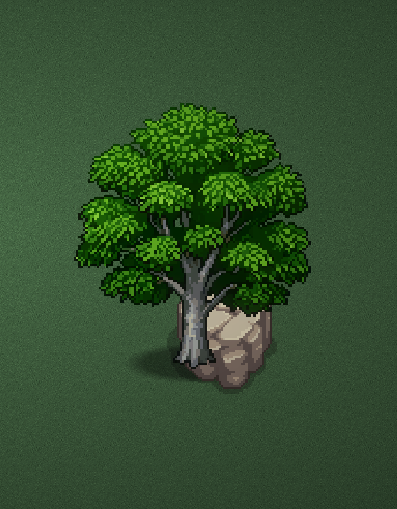
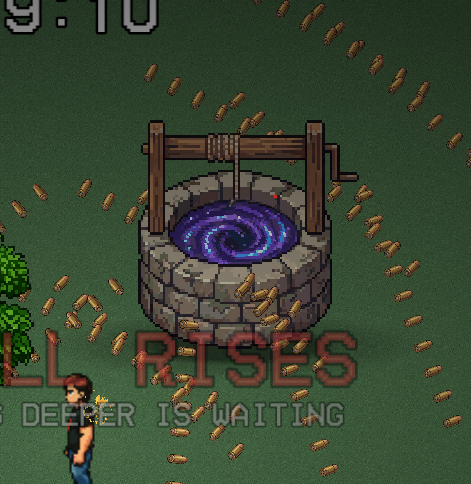
Umbra fantanii Ender: inel in jurul talpii, nu pata sub ea
Talpa fantanii, masurata in pixelii texturii, e o elipsa de ~72x26 px cu
centrul cu ~33px mai sus decat baza sprite-ului. Umbra era centrata pe bot,
deci iesea toata in jos, pe iarba. Acum e centrata pe talpa si putin mai mare
decat ea (1.15 / squash 0.42 / shift -33), deci lasa un inel egal de jur imprejur.
halo_scale 1.7 -> 1.5 ca haloul violet sa ramana la fel de lat ca inainte.

diff --git a/README.md b/README.md
@@ -111,6 +111,14 @@ All scenes (`.tscn`) and scripts (`.gd`) live in the project root.
 
 **Collision:** everything is on the default layer/mask (layer 1). Bullets (Area2D) detect enemies (CharacterBody2D) via `body_entered` and filter with `is_in_group("enemy")`, so no manual collision-layer setup is needed yet.
 
+## Current state (2026-08-04, the Ender well's shadow, take two — a ring around its foot)
+- 🐛 **Reported again** ("tot nu e facuta umbra bine, fa fix inconjuru ei, adica umbra trebuie pusa mai sus si mai mare"), with a fresh screenshot in `debugging/`.
+- **What the previous pass got wrong:** it treated the shadow as a pool under a support point, the way trees work, and glued it to the bottom lip of the stone. But the well is a **barrel** — its shadow is not a smear, it is the **circle it stands on**, slightly inflated.
+- **Measured off the texture, row by row:** the foot is an ellipse ~72 px wide and ~26 px tall (side edges at `y=99`, the front lip at `y=112`). So its real squash is **0.36**, not 0.18, and its centre sits about **33 px** (node coordinates) *above* `base_y`, which is the lip itself. The old `shift_y = -3` put the ellipse's centre on that lip, so the whole shadow fell *downwards* onto the grass — precisely the stain he kept seeing.
+- **Now:** `shadow_width` 1.15, `shadow_squash` 0.42, `shadow_shift_y` -33 — centre on centre, ellipse a touch larger than the foot, leaving an even ring to the left, to the right and in front, with its top half tucking naturally under the stone.
+- **`halo_scale` 1.7 → 1.5** so the violet halo stays exactly as wide as before (1.00×1.7 ≈ 1.15×1.5); it is multiplied by `shadow_width`, so without the correction it would have grown 15% for no reason. Its alphas were left alone.
+- Verified on renders: four variants side by side on his grass colour, then old-vs-new on the Ender floor to confirm the halo does not lose its anchoring over there.
+
 ## Current state (2026-08-04, "the +5% damage item does nothing" — the panel was lying)
 - 🐛 **Reported:** "nu merge itemu de 5% damage increase, nu iti da nimic" (Cigarette Pack).
 - **The item worked.** Measured with the pistol on a dummy, crit forced to 0: **24 → 25 → 26 → 28** damage per hit across three pickups — exactly `bullet_damage × (1 + 0.05·n)`, rounded.

diff --git a/CLAUDE.md b/CLAUDE.md
@@ -17,6 +17,22 @@ Quick rules:
 
 ---
 
+## Session log — 2026-08-04 (umbra fântânii Ender, a doua oară: inel în jurul tălpii)
+
+**Cerut de Răzvan:** „tot nu e facuta umbra bine, fa fix inconjuru ei, adica umbra trebuie pusa mai sus si mai mare", cu o captură nouă în `debugging/`.
+
+**Ce lipsea în reglajul de dinainte** (dunga de contact, `1.00` / `squash` 0.18 / `shift_y` -3): plecam de la ideea că umbra e o baltă sub un punct de sprijin, ca la copaci, și o lipeam de botul de jos al pietrei. Dar fântâna e un BUTOI: umbra ei nu e o pată, e **cercul pe care stă**, umflat puțin.
+
+**Măsurat, nu ghicit** — silueta texturii, rând cu rând, în banda de jos: talpa e o elipsă lată de ~72 px și înaltă de ~26 (marginile din lateral la `y=99`, botul din față la `y=112`). Deci turtirea ei reală e **0.36**, nu 0.18, iar centrul ei stă cu **~33 px** (în coordonatele nodului) mai sus decât `base_y`, care e chiar botul. Cifra de dinainte (`shift_y = -3`) punea centrul elipsei fix pe bot, deci toată umbra ieșea în JOS, pe iarbă — exact pata pe care o vedea el.
+
+**Ce e acum:** `shadow_width` 1.15, `shadow_squash` 0.42, `shadow_shift_y` -33. Centrul umbrei pe centrul tălpii, elipsa puțin mai mare decât ea → rămâne un inel egal în stânga, în dreapta și în față, iar partea de sus intră firesc sub piatră. Asta e „fix înconjuru ei".
+
+**`halo_scale` 1.7 → 1.5** ca haloul violet să rămână LA FEL de lat ca înainte (1.00×1.7 ≈ 1.15×1.5). E înmulțit cu `shadow_width`, deci fără corecție ar fi crescut și el cu 15% degeaba. Alfele lui n-au fost atinse.
+
+**Verificat rulând:** patru variante una lângă alta pe iarba din captura lui (cea veche + trei mărimi), apoi vechi-vs-nou pe podeaua Ender-ului, ca haloul să nu piardă din ancoră dincolo — nicio diferență în rău acolo. Scena de test a fost ștearsă.
+
+---
+
 ## Session log — 2026-08-04 (Cigarette Pack „nu dă nimic": panoul mințea, itemul mergea)
 
 **Raportat de Răzvan:** „nu merge itemu de 5% damage increase, nu iti da nimic".
